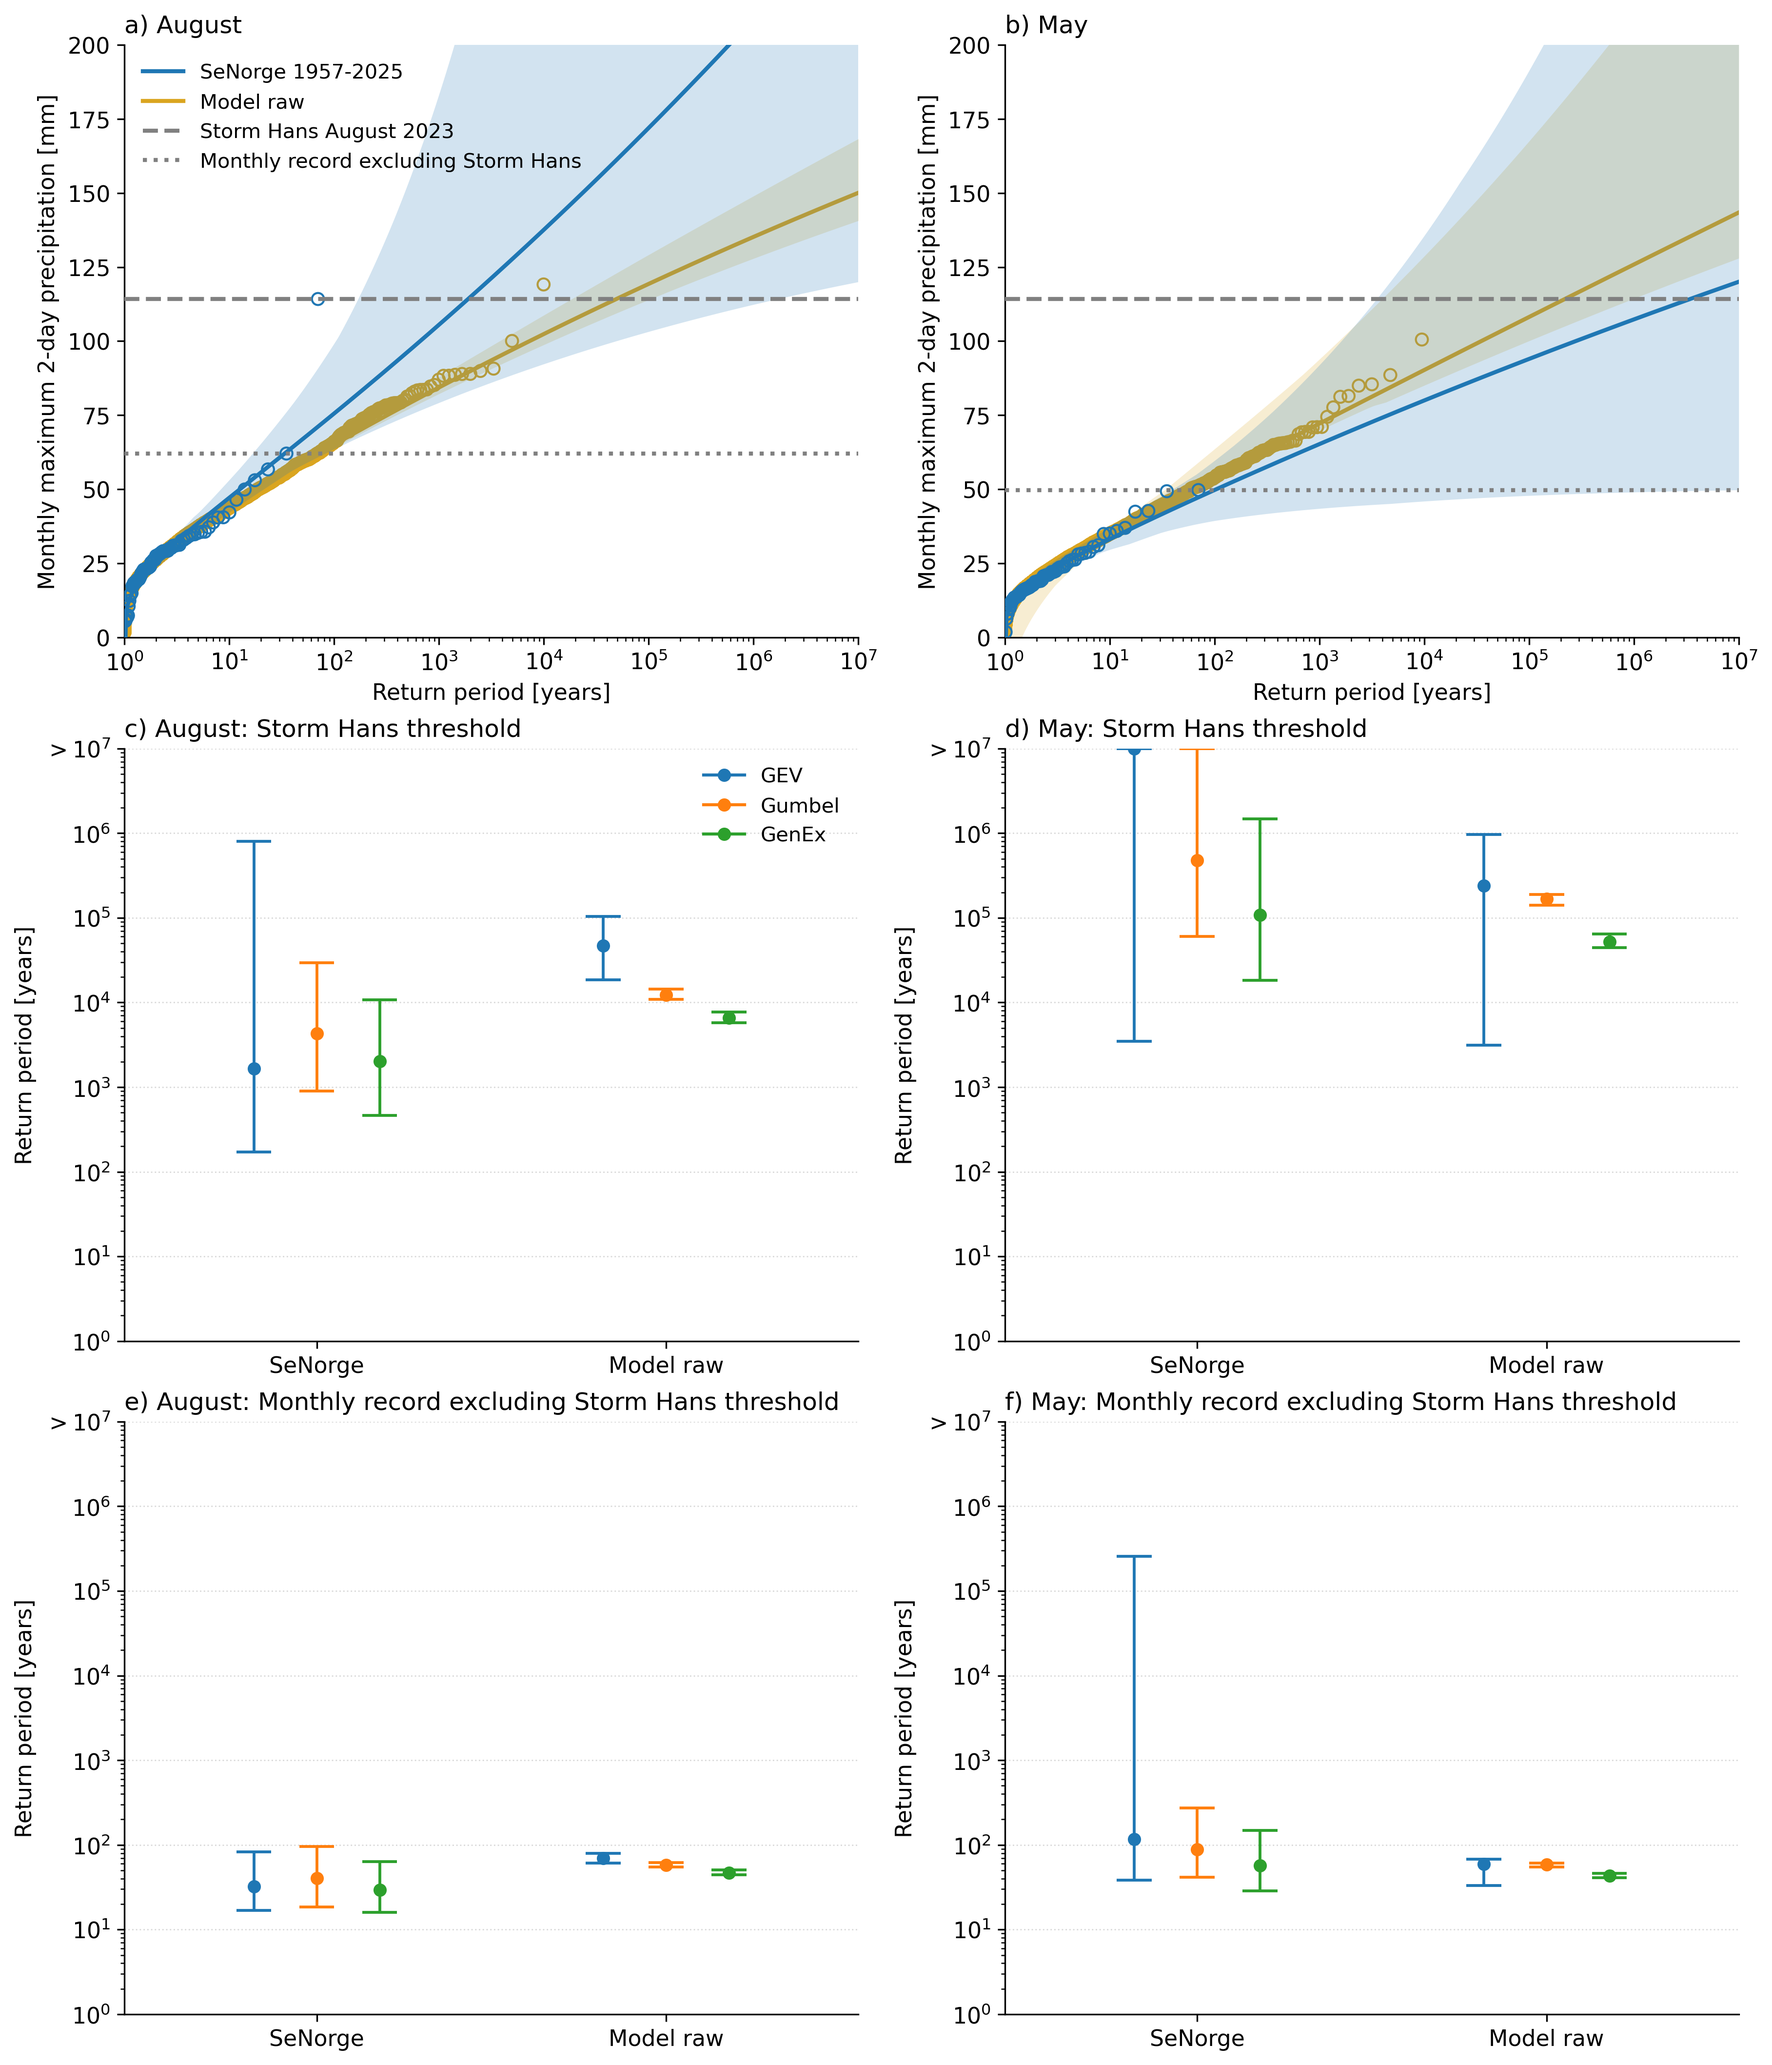
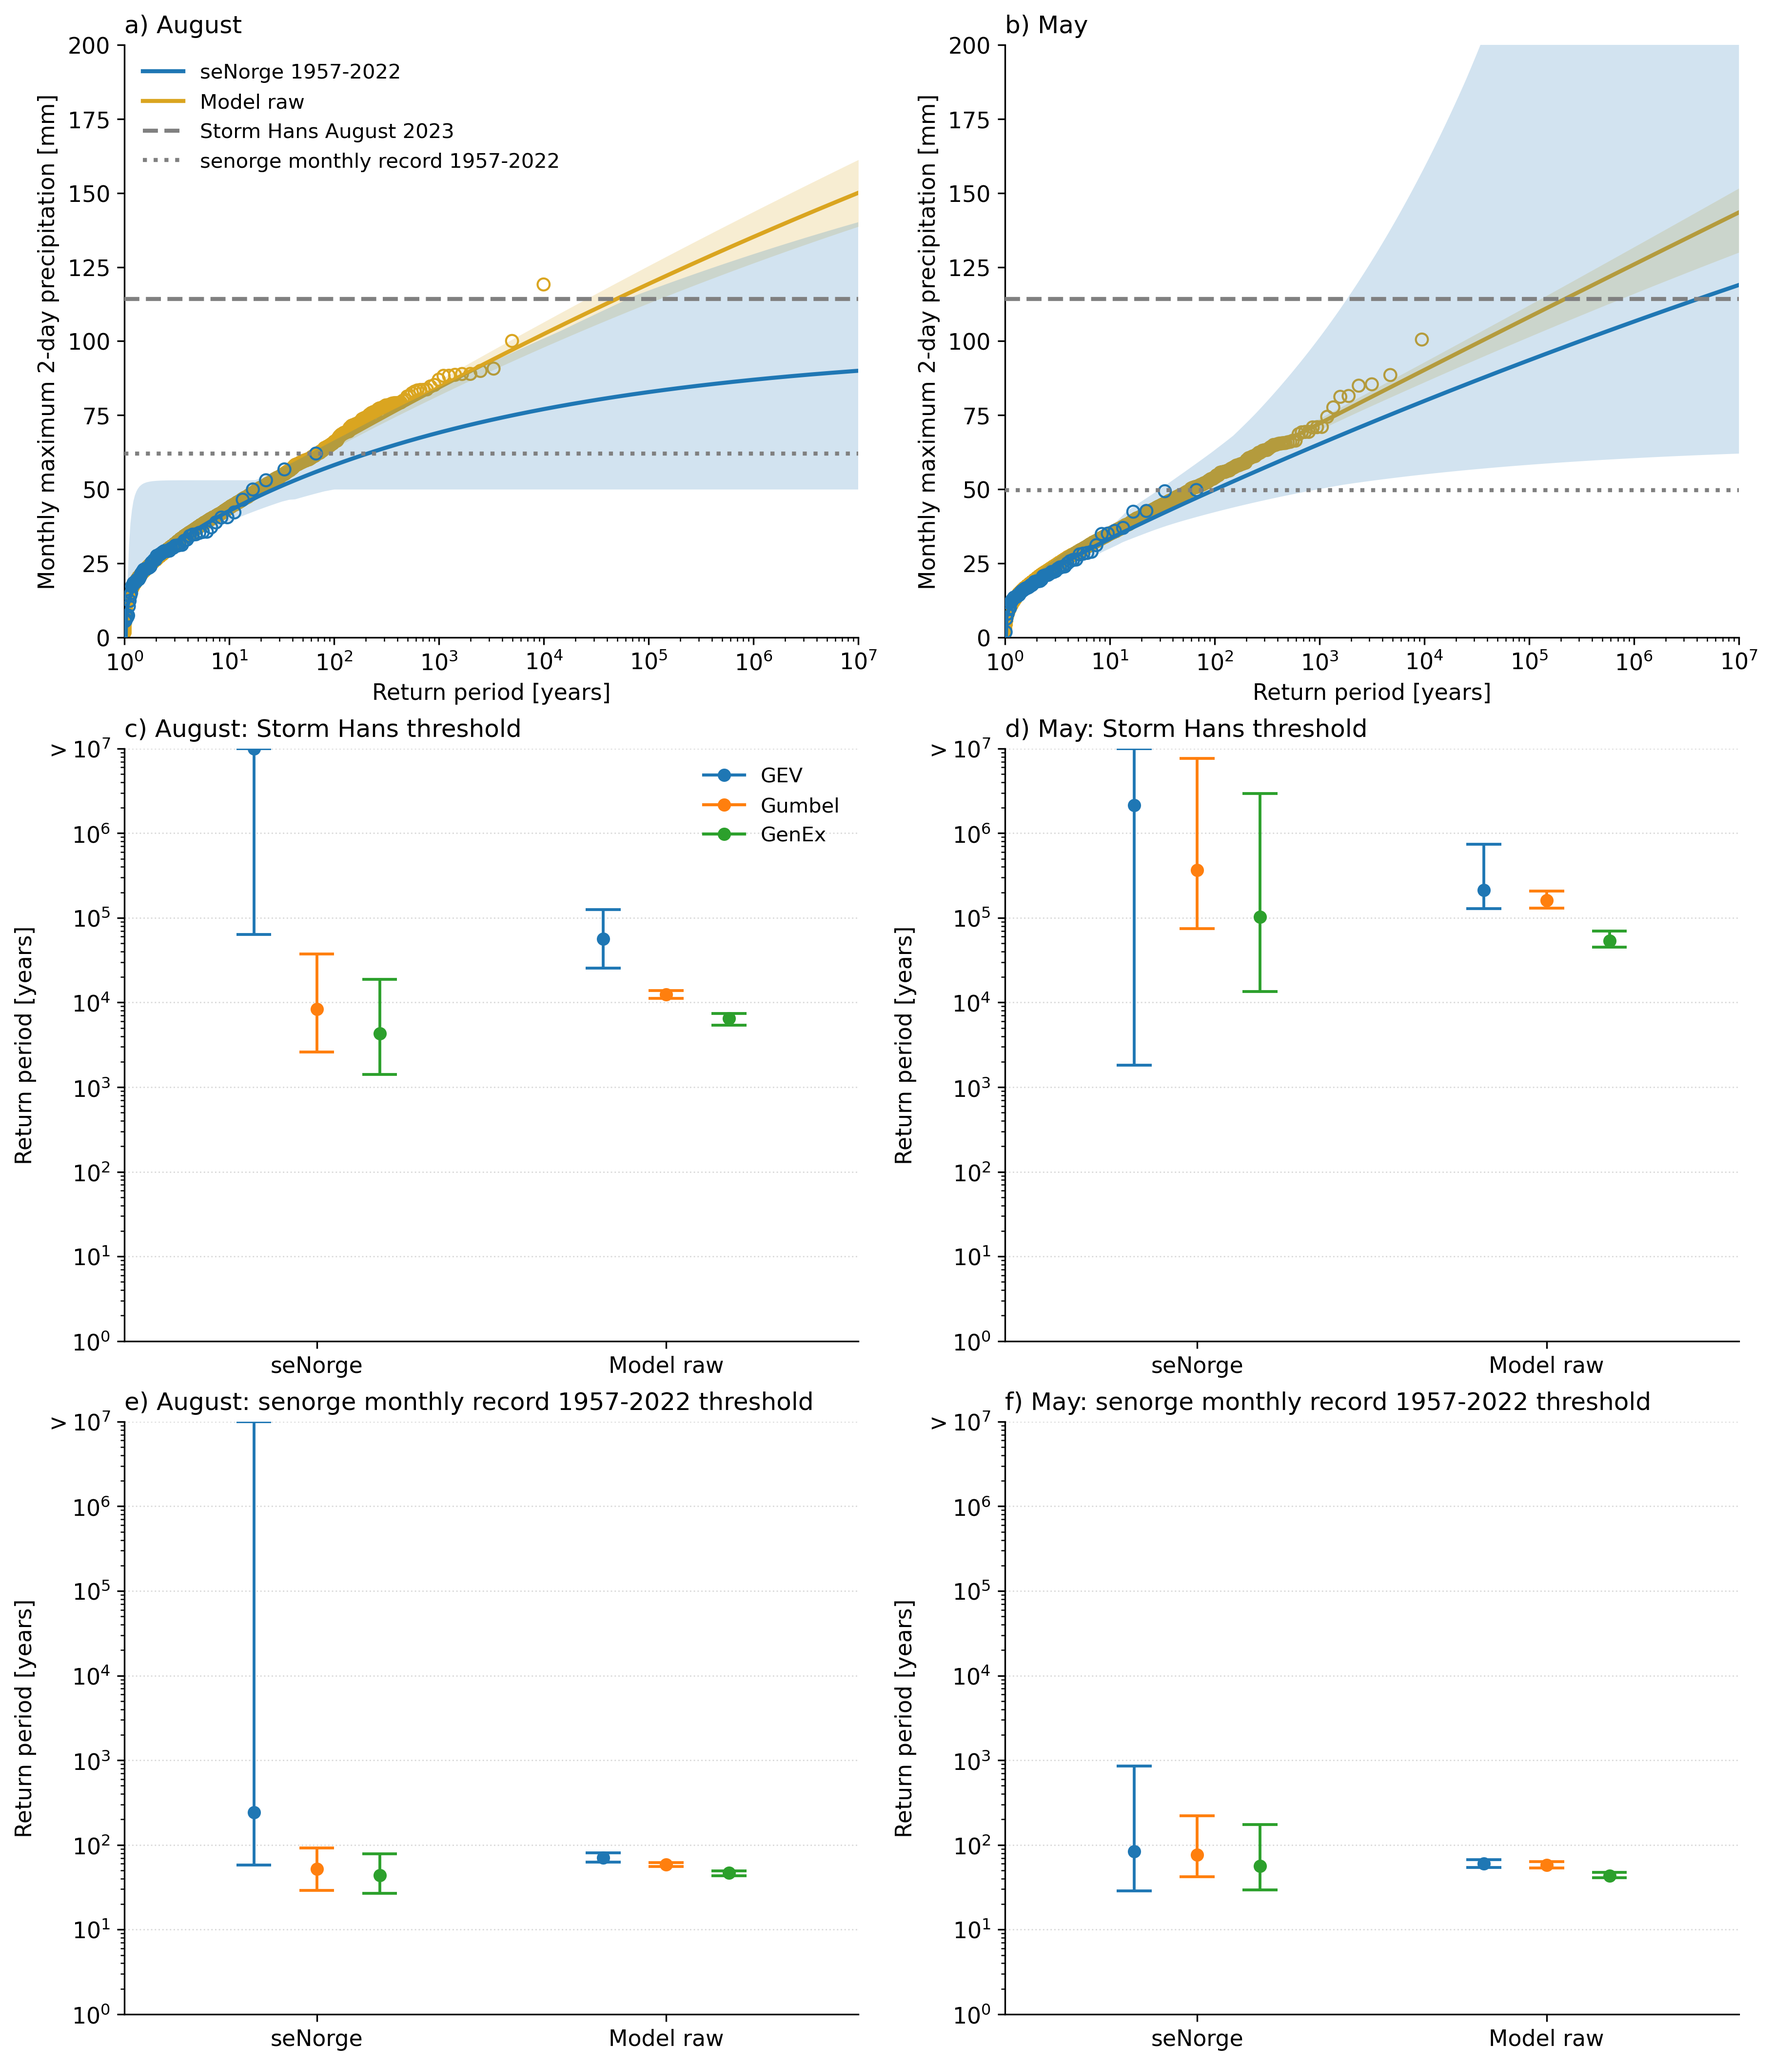
update

diff --git a/code/plot/paper_figs/plot-fig-03.py b/code/plot/paper_figs/plot-fig-03.py
@@ -59,8 +59,8 @@ TOP_DISTRIBUTION = "Gumbel"
 PLOT_METRIC = "return_period"
 AEP_YEARS = 1
 
-BOOTSTRAP_METHOD = "parametric"  # "nonparametric" or "parametric"
-NUMBER_OF_BOOTSTRAPS = 50
+BOOTSTRAP_METHOD = "nonparametric"  # "nonparametric" or "parametric"
+NUMBER_OF_BOOTSTRAPS = 20
 CONFIDENCE_LEVEL = 0.95
 MIN_SUCCESSFUL_BOOTSTRAP_FRACTION = 0.90
 RANDOM_SEED = 42

diff --git a/code/plot/paper_figs/temp.py b/code/plot/paper_figs/temp.py
@@ -84,7 +84,7 @@ PRECIPITATION_YMIN = 0.0
 PRECIPITATION_YMAX = 200.0
 
 SHOW_GRID = True
-WRITE_TO_FILE = False
+WRITE_TO_FILE = True
 SHOW_FIGURE = True
 
 # =============================================================================
